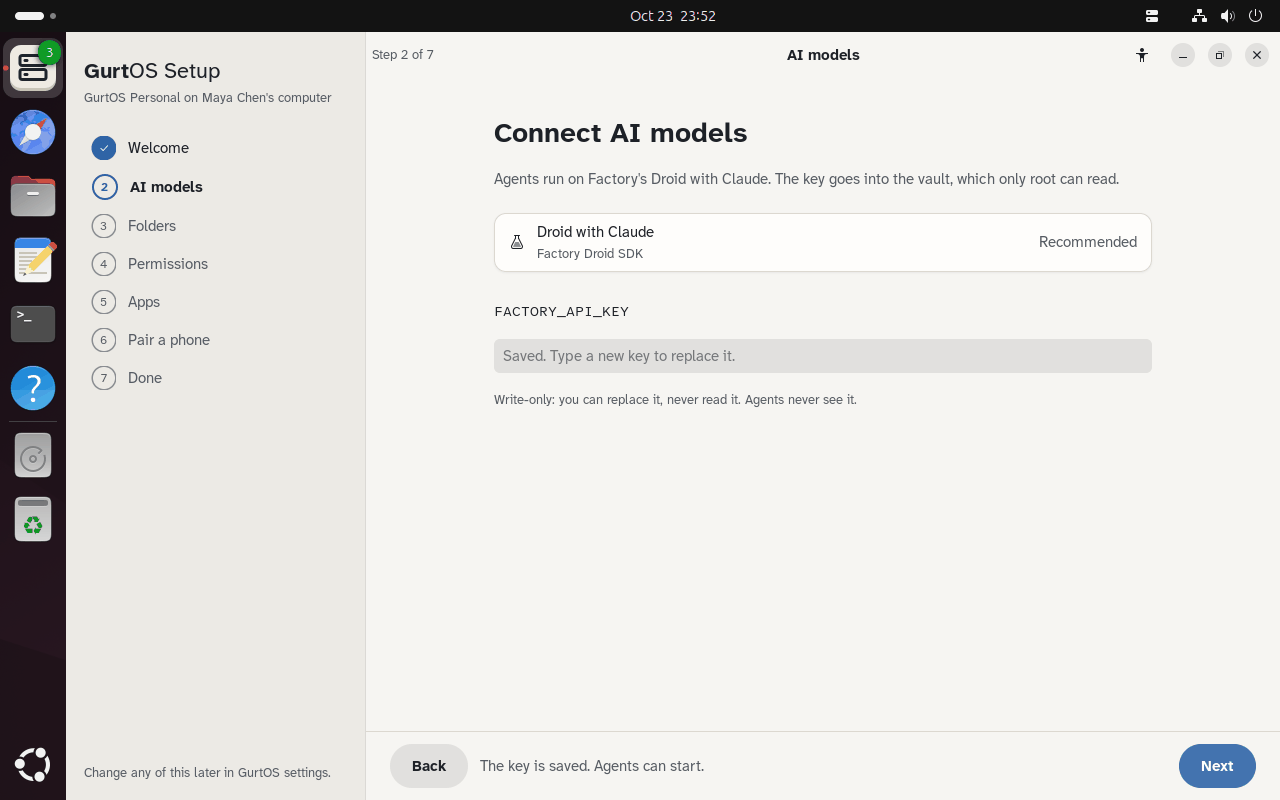
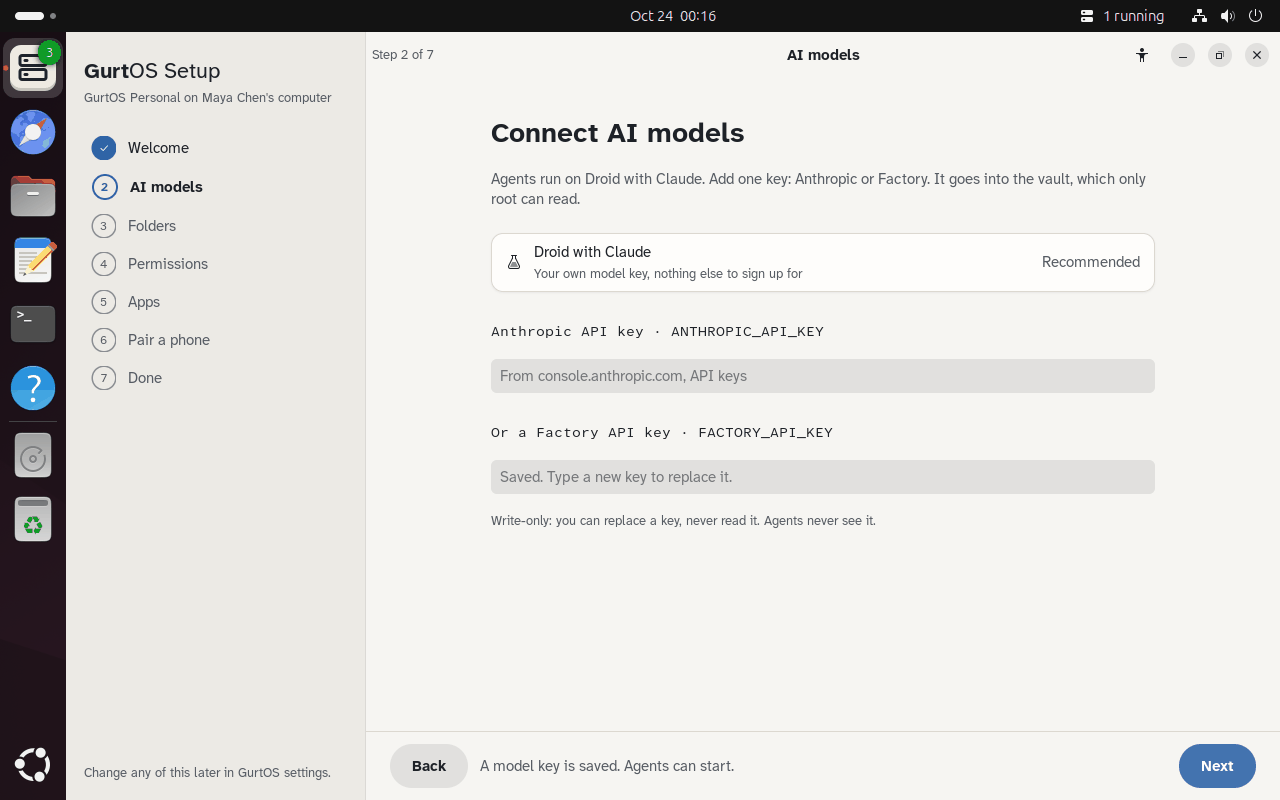
Personal: one model key, Anthropic or Factory; a missing key opens GurtOS Setup; apps that are off don't ask for keys

diff --git a/personal/setupwin.py b/personal/setupwin.py
@@ -18,6 +18,10 @@ STEPS = [  # (id for /api/setup/step, label in the step list and the header)
 SKIPPABLE = {'apps', 'phone'}
 THRESHOLDS = [100, 500, 2000, 10000]  # cents: always ask before a single spend over this
 BUDGETS = [0, 50, 100, 500, 2000]  # cents: the budget of a task that names none
+MODEL_KEYS = [  # vault name, label, where to get it. One is enough.
+    ('ANTHROPIC_API_KEY', 'Anthropic API key', 'From console.anthropic.com, API keys'),
+    ('FACTORY_API_KEY', 'Or a Factory API key', 'From app.factory.ai, Settings, API keys'),
+]
 FOLDER_CHOICES = ['May change', 'Not allowed']  # "May read" waits for the core to tell reading from changing
 
 
@@ -66,7 +70,7 @@ class SetupWindow(Adw.ApplicationWindow):
     def __init__(self, app):
         super().__init__(application=app, title='GurtOS Setup', default_width=1100, default_height=760)
         self.at = 0
-        self.settings, self.vault, self.apps, self.boxes, self.taken = {}, [], [], [], {}
+        self.settings, self.vault, self.apps, self.boxes, self.taken, self.model = {}, [], [], [], {}, None
         self.folder_draft = None  # {path: 'May change' | 'Not allowed'} until Next saves it
 
         # The step list.
@@ -133,6 +137,7 @@ class SetupWindow(Adw.ApplicationWindow):
             self.next.set_sensitive(False)
             return
         setup, self.settings, self.vault, self.apps, self.boxes = state
+        self.model = setup.get('model')
         self.taken = setup.get('steps', {})
         first_open = next((i for i, (sid, _l) in enumerate(STEPS) if sid not in self.taken and sid != 'done'), len(STEPS) - 1)
         self.go(0 if setup.get('done') else first_open)
@@ -227,31 +232,39 @@ class SetupWindow(Adw.ApplicationWindow):
         self.summary.set_label('About 5 minutes.')
         return scroller
 
+    def model_ready(self):
+        # The box says once it knows (GET /api/setup -> model.ready); until then, either key in the vault counts.
+        if isinstance(self.model, dict) and 'ready' in self.model:
+            return bool(self.model['ready'])
+        return any(self.has_key(k) for k, _l, _h in MODEL_KEYS)
+
     def models(self):
-        scroller, box = page('Connect AI models', "Agents run on Factory's Droid with Claude. The key goes into the vault, which only root can read.")
+        scroller, box = page('Connect AI models', 'Agents run on Droid with Claude. Add one key: Anthropic or Factory. '
+                                                  'It goes into the vault, which only root can read.')
         lst = boxed()
-        worker = row('Droid with Claude', 'Factory Droid SDK', 'applications-science-symbolic')
+        worker = row('Droid with Claude', 'Your own model key, nothing else to sign up for', 'applications-science-symbolic')
         worker.add_suffix(Gtk.Label(label='Recommended', css_classes=['gurt-secondary']))
         lst.append(worker)
         box.append(lst)
-        saved = self.has_key('FACTORY_API_KEY')
-        box.append(Gtk.Label(label='FACTORY_API_KEY', xalign=0, css_classes=['gurt-mono'], margin_top=12))
-        entry = Gtk.PasswordEntry(show_peek_icon=False, placeholder_text='Saved. Type a new key to replace it.' if saved else 'Paste the key from app.factory.ai')
-        entry.update_property([Gtk.AccessibleProperty.LABEL], ['Factory API key'])
-        box.append(entry)
-        box.append(Gtk.Label(label='Write-only: you can replace it, never read it. Agents never see it.', xalign=0, css_classes=['gurt-caption', 'gurt-secondary']))
+        for name, label, hint in MODEL_KEYS:
+            saved = self.has_key(name)
+            box.append(Gtk.Label(label=f'{label} · {name}', xalign=0, css_classes=['gurt-mono'], margin_top=12))
+            entry = Gtk.PasswordEntry(show_peek_icon=False, placeholder_text='Saved. Type a new key to replace it.' if saved else hint)
+            entry.update_property([Gtk.AccessibleProperty.LABEL], [label])
+            box.append(entry)
 
-        def save(*_):
-            value = entry.get_text().strip()
-            if value:
-                entry.set_text('')  # write-only: the value leaves the screen as it goes to the vault
-                self.save_key('FACTORY_API_KEY', value, lambda: (entry.set_property('placeholder-text', 'Saved. Type a new key to replace it.'),
-                                                                  self.summary.set_label('The key is saved. Agents can start.')))
-        entry.connect('activate', save)
-        focus = Gtk.EventControllerFocus()
-        focus.connect('leave', save)  # Next or a click elsewhere saves it too
-        entry.add_controller(focus)
-        self.summary.set_label('The key is saved. Agents can start.' if saved else 'Agents can start once the key is saved.')
+            def save(*_, entry=entry, name=name):
+                value = entry.get_text().strip()
+                if value:
+                    entry.set_text('')  # write-only: the value leaves the screen as it goes to the vault
+                    self.save_key(name, value, lambda: (entry.set_property('placeholder-text', 'Saved. Type a new key to replace it.'),
+                                                        self.summary.set_label('The key is saved. Agents can start.')))
+            entry.connect('activate', save)
+            focus = Gtk.EventControllerFocus()
+            focus.connect('leave', save)  # Next or a click elsewhere saves it too
+            entry.add_controller(focus)
+        box.append(Gtk.Label(label='Write-only: you can replace a key, never read it. Agents never see it.', xalign=0, css_classes=['gurt-caption', 'gurt-secondary']))
+        self.summary.set_label('A model key is saved. Agents can start.' if self.model_ready() else 'Agents can start once one key is saved.')
         return scroller
 
     def chosen_folders(self):
@@ -356,7 +369,7 @@ class SetupWindow(Adw.ApplicationWindow):
         hosts = access.get('hosts') or []
         keys = access.get('secrets', [])
         shown = [chip(h, 'web-browser-symbolic') for h in hosts[:2]] or [chip('No internet', 'window-close-symbolic')]
-        shown += [chip(k['name'] if k.get('set') else f"Add {k['name']}", 'dialog-password-symbolic', attention=not k.get('set')) for k in keys[:2]]
+        shown += [chip(k['name'] if k.get('set') or not a.get('enabled') else f"Add {k['name']}", 'dialog-password-symbolic', attention=a.get('enabled') and not k.get('set')) for k in keys[:2]]
         rest = max(0, len(hosts) - 2) + max(0, len(keys) - 2)
         if rest:
             shown.append(chip(f'{rest} more'))
@@ -459,7 +472,7 @@ class SetupWindow(Adw.ApplicationWindow):
             card.append(inner)
             cards.append(card)
         box.append(cards)
-        self.summary.set_label('' if self.has_key('FACTORY_API_KEY') else 'Add the Factory key in GurtOS settings before your first task.')
+        self.summary.set_label('' if self.model_ready() else 'Add a model key (Anthropic or Factory) before your first task.')
         return scroller
 
 

diff --git a/personal/box-desktop.py b/personal/box-desktop.py
@@ -20,7 +20,7 @@ gi.require_version('AyatanaAppIndicator3', '0.1')
 from gi.repository import AyatanaAppIndicator3 as AppIndicator, Gio, GLib, Gtk  # noqa: E402
 
 sys.path.insert(0, os.path.dirname(os.path.realpath(__file__)))
-from boxapi import BOX, api, dollars, header_caps, plan, quiet_now, quote, reviews, running, top_bar, ui, where  # noqa: E402
+from boxapi import BOX, api, dollars, header_caps, no_model_key, plan, quiet_now, quote, reviews, running, top_bar, ui, where  # noqa: E402
 
 APP = 'dev.box.Box'
 USER = getpass.getuser()
@@ -119,8 +119,12 @@ class Desktop:
         for t in self.tasks:  # a task that failed since this login, once
             if t['state'] == 'failed' and t['updatedAt'] >= self.started and t['id'] not in self.told_failed:
                 self.told_failed.add(t['id'])
-                self.notify(f"failed:{t['id']}", header_caps(f"{t['title'].rstrip('.')} could not finish"), t.get('error') or 'It stopped with an error.',
-                            ['default', 'Open in GurtOS'], 1, track=False)
+                if no_model_key(t.get('error')):
+                    self.notify(f"setup:{t['id']}", header_caps(f"{t['title'].rstrip('.')} could not start"),
+                                'Add a model key (Anthropic or Factory) in GurtOS Setup.', ['default', 'Open GurtOS Setup'], 1, track=False)
+                else:
+                    self.notify(f"failed:{t['id']}", header_caps(f"{t['title'].rstrip('.')} could not finish"), t.get('error') or 'It stopped with an error.',
+                                ['default', 'Open in GurtOS'], 1, track=False)
         self.approvals = pending
         self.render()
         return False
@@ -169,6 +173,8 @@ class Desktop:
             ui('review', ident)
         elif kind == 'failed':
             ui('app', f'task/{ident}')
+        elif kind == 'setup':
+            ui('setup')
 
     def on_closed(self, _bus, _sender, _path, _iface, _signal, params):
         self.shown.pop(params.unpack()[0], None)

diff --git a/personal/boxapi.py b/personal/boxapi.py
@@ -139,3 +139,9 @@ def header_caps(text):
         literal = any(c in w for c in './_@:0123456789')  # file names, hosts, amounts stay as they are
         out.append(w if small or literal or not w[:1].islower() else w[:1].upper() + w[1:])
     return ' '.join(out)
+
+
+def no_model_key(error):
+    """Whether a task failed because the vault has no model key yet (a fresh install), so the fix is GurtOS Setup."""
+    e = (error or '').lower()
+    return 'vault has no' in e and any(k in e for k in ('factory_api_key', 'anthropic_api_key', 'model key'))

diff --git a/personal/README.md b/personal/README.md
@@ -18,7 +18,7 @@ GurtOS Personal ISO walked as a new person on Wayland, Ubuntu's default (below).
 | The GurtOS app | The portal in its own window (WebKitGTK), first in the dock | `box-ui.py app` |
 | Ask an Agent in Files | Right-click one folder or up to ten. One dialog: the task, the folders it may change, its internet, budget and worker. One Droid task on copies of them | `files/box-nautilus.py`, `box-ui.py ask` |
 | Keep or Undo | When the task is done, a notification opens the review: what changed, the diff, and a card that asks Keep these changes? Put files back undoes a Keep | `box-ui.py review` |
-| Failures | A task that cannot finish says why in a notification (for example, a fresh install's vault has no model key yet) | `box-desktop.py` |
+| Failures | A task that cannot finish says why in a notification (a missing model key instead offers to open GurtOS Setup) | `box-desktop.py` |
 
 **The design.** These windows follow the GurtOS system (`docs/figma/system.md`) and the Personal frames in
 `docs/figma/os-v2/personal/`, built from libadwaita's own widgets so they sit among GNOME apps. The system's colour
@@ -37,10 +37,10 @@ after GNOME's own setup, until the box says setup is done, and resumes at the fi
 | Step | What it does | Checked |
 |---|---|---|
 | Welcome | What keeps agents safe on this computer | Opened by itself at login |
-| AI models | The worker and the write-only `FACTORY_API_KEY`. A saved key shows as saved, never its value | The VM's key was detected without being shown |
+| AI models | One model key, write-only: `ANTHROPIC_API_KEY` (your own Anthropic key is enough) or `FACTORY_API_KEY`. A saved key shows as saved, never its value | The VM's key was detected without being shown |
 | Folders | The owner's usual folders, each May change or Not allowed (`agentFolders`), plus Add a folder | Documents and Projects saved; a folder outside is refused (self-test) |
 | Permissions | Internet for new tasks, the spend that always asks, the default budget, quiet hours | $5.00 saved; quiet hours mute approval banners (self-test) |
-| Apps | Every app with its icon, the sites it reaches and its keys (amber when missing); a switch turns it on or off; clicking an app with a missing key opens a sheet to add it | `APIFY_TOKEN` saved: listed by name and time, the chip turned grey; ASI:One turned off and on again in the box |
+| Apps | Optional. Every app with its icon, the sites it reaches and its keys (amber only when an app that is on misses one); a switch turns it on or off; clicking an app with a missing key opens a sheet to add it | `APIFY_TOKEN` saved: listed by name and time, the chip turned grey; ASI:One turned off and on again in the box |
 | Pair a phone | QR and code when the box has an address a phone can reach; otherwise it says so and offers Skip | No address on Personal yet, so Skip |
 | Done | Four cards: Ask an Agent, the top bar, Keep or Undo, Time Machine. Start using GurtOS finishes and opens the app | `done: true`, six steps recorded |
 
